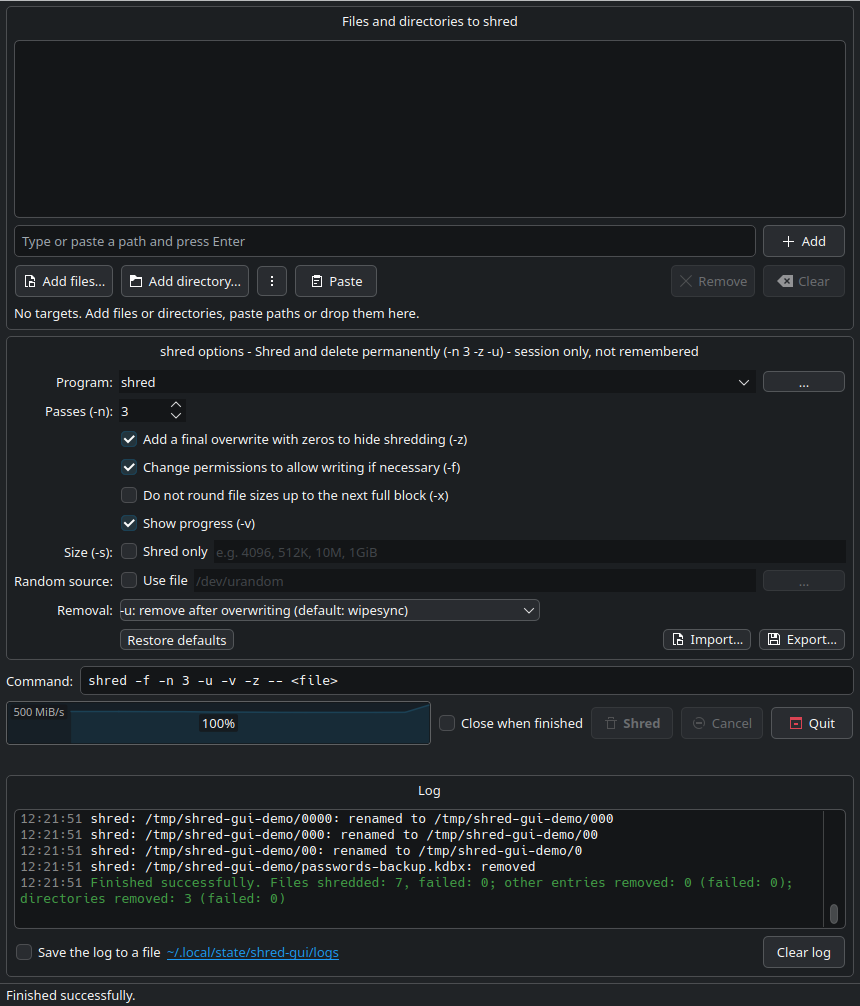
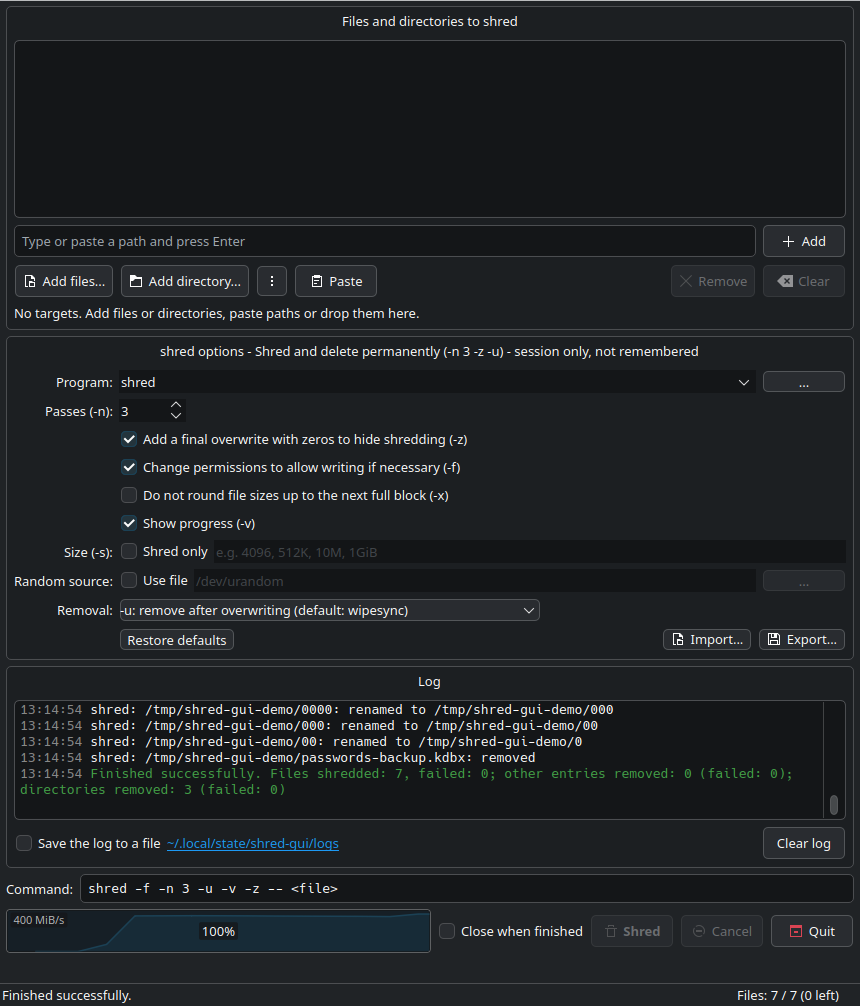
File counter, run controls at the bottom, result in the status bar
- Count the shredded files of all targets (ShredJob::filesChanged) and
  show "Files: done / total (left)" on the right of the status bar.
- Move the command preview, the progress bar and the buttons below the
  log, as in rsync-gui.
- Show the result of the last run (finished, cancelled, finished with
  errors, scanning cancelled) on the left of the status bar until the
  next run; it no longer disappears when the controls are updated.

diff --git a/src/mainwindow.cpp b/src/mainwindow.cpp
@@ -257,47 +257,6 @@ void MainWindow::buildUi()
     form->addRow(QString(), settingsRow);
     mainLayout->addWidget(m_optionsBox);
 
-    // --- Command preview ---
-    auto *previewRow = new QHBoxLayout;
-    m_previewEdit = new QLineEdit(central);
-    m_previewEdit->setReadOnly(true);
-    m_previewEdit->setFont(QFontDatabase::systemFont(QFontDatabase::FixedFont));
-    previewRow->addWidget(new QLabel(tr("Command:"), central));
-    previewRow->addWidget(m_previewEdit, 1);
-    mainLayout->addLayout(previewRow);
-
-    // --- Run ---
-    auto *runRow = new QHBoxLayout;
-    m_progress = new SpeedGraph(central);
-    m_progress->setRange(0, 1000);
-    m_progress->setValue(0);
-    m_progress->setFormat(QStringLiteral("%p%"));
-    m_startButton = new QPushButton(QIcon::fromTheme(QStringLiteral("edit-delete")), tr("Shred"), central);
-    m_startButton->setStyleSheet(QStringLiteral("QPushButton:enabled { color: white; background-color: #c62828; "
-                                                "font-weight: bold; padding: 4px 16px; }"));
-    m_cancelButton = new QPushButton(QIcon::fromTheme(QStringLiteral("process-stop")), tr("Cancel"), central);
-    m_quitButton = new QPushButton(QIcon::fromTheme(QStringLiteral("application-exit")), tr("Quit"), central);
-    m_quitButton->setToolTip(tr("Close Shred GUI (while shredding, asks first whether to cancel it)."));
-    m_closeWhenFinishedCheck = new QCheckBox(tr("Close when finished"), central);
-    m_closeWhenFinishedCheck->setToolTip(tr("Quit Shred GUI after everything was shredded successfully. After errors "
-                                            "or cancelling the window stays open."));
-    runRow->addWidget(m_progress, 1);
-    runRow->addWidget(m_closeWhenFinishedCheck);
-    runRow->addWidget(m_startButton);
-    runRow->addWidget(m_cancelButton);
-    runRow->addWidget(m_quitButton);
-    mainLayout->addLayout(runRow);
-
-    m_currentFile = new ElidedLabel(central);
-    m_currentFile->setTextInteractionFlags(Qt::TextSelectableByMouse);
-    mainLayout->addWidget(m_currentFile);
-    m_scanTimer = new QTimer(this);
-    m_scanTimer->setInterval(200);
-    connect(m_scanTimer, &QTimer::timeout, this, [this] {
-        if (m_scanControl)
-            m_currentFile->setText(tr("Scanning... %L1 entries").arg(m_scanControl->entries.load()));
-    });
-
     // --- Log ---
     auto *logBox = new QGroupBox(tr("Log"), central);
     auto *logLayout = new QVBoxLayout(logBox);
@@ -333,6 +292,54 @@ void MainWindow::buildUi()
     logLayout->addWidget(m_log, 1);
     logLayout->addLayout(logButtons);
     mainLayout->addWidget(logBox, 1);
+
+    // --- Command preview ---
+    auto *previewRow = new QHBoxLayout;
+    m_previewEdit = new QLineEdit(central);
+    m_previewEdit->setReadOnly(true);
+    m_previewEdit->setFont(QFontDatabase::systemFont(QFontDatabase::FixedFont));
+    previewRow->addWidget(new QLabel(tr("Command:"), central));
+    previewRow->addWidget(m_previewEdit, 1);
+    mainLayout->addLayout(previewRow);
+
+    // --- Run ---
+    auto *runRow = new QHBoxLayout;
+    m_progress = new SpeedGraph(central);
+    m_progress->setRange(0, 1000);
+    m_progress->setValue(0);
+    m_progress->setFormat(QStringLiteral("%p%"));
+    m_startButton = new QPushButton(QIcon::fromTheme(QStringLiteral("edit-delete")), tr("Shred"), central);
+    m_startButton->setStyleSheet(QStringLiteral("QPushButton:enabled { color: white; background-color: #c62828; "
+                                                "font-weight: bold; padding: 4px 16px; }"));
+    m_cancelButton = new QPushButton(QIcon::fromTheme(QStringLiteral("process-stop")), tr("Cancel"), central);
+    m_quitButton = new QPushButton(QIcon::fromTheme(QStringLiteral("application-exit")), tr("Quit"), central);
+    m_quitButton->setToolTip(tr("Close Shred GUI (while shredding, asks first whether to cancel it)."));
+    m_closeWhenFinishedCheck = new QCheckBox(tr("Close when finished"), central);
+    m_closeWhenFinishedCheck->setToolTip(tr("Quit Shred GUI after everything was shredded successfully. After errors "
+                                            "or cancelling the window stays open."));
+    runRow->addWidget(m_progress, 1);
+    runRow->addWidget(m_closeWhenFinishedCheck);
+    runRow->addWidget(m_startButton);
+    runRow->addWidget(m_cancelButton);
+    runRow->addWidget(m_quitButton);
+    mainLayout->addLayout(runRow);
+
+    m_currentFile = new ElidedLabel(central);
+    m_currentFile->setTextInteractionFlags(Qt::TextSelectableByMouse);
+    m_fileCount = new QLabel(this);
+    m_fileCount->setToolTip(tr("Files processed (shredded or failed) of all files to shred, and how many are left."));
+    mainLayout->addWidget(m_currentFile);
+    // The status bar: the result of the last run on the left (hidden while a message is shown there, e.g. an
+    // invalid option), the file counter on the right.
+    m_resultLabel = new QLabel(this);
+    statusBar()->addWidget(m_resultLabel, 1);
+    statusBar()->addPermanentWidget(m_fileCount);
+    m_scanTimer = new QTimer(this);
+    m_scanTimer->setInterval(200);
+    connect(m_scanTimer, &QTimer::timeout, this, [this] {
+        if (m_scanControl)
+            m_currentFile->setText(tr("Scanning... %L1 entries").arg(m_scanControl->entries.load()));
+    });
 
     setCentralWidget(central);
     resize(840, 960);
@@ -943,8 +950,10 @@ void MainWindow::startShred()
         m_progress->setValue(0);
         m_currentFile->clear();
         updateControls();
-        if (control->cancelled)
+        if (control->cancelled) {
             appendLog(ShredJob::LogLevel::Warning, tr("Scanning cancelled."));
+            m_resultLabel->setText(tr("Scanning cancelled."));
+        }
         else
             confirmAndStart(result->plans, result->notes);
     });
@@ -952,6 +961,8 @@ void MainWindow::startShred()
     m_scanThread = thread;
     m_progress->setRange(0, 0); // busy indicator
     m_currentFile->setText(tr("Scanning..."));
+    m_fileCount->clear();
+    m_resultLabel->clear();
     m_scanTimer->start();
     thread->start();
     updateControls();
@@ -1141,6 +1152,9 @@ void MainWindow::confirmAndStart(const QList<ShredJob::Plan> &scanned, const QSt
     connect(m_job, &ShredJob::currentFileChanged, this, [this](const QString &file) {
         m_currentFile->setText(file.isEmpty() ? QString() : tr("Current file: "), LocalPath::display(file));
     });
+    connect(m_job, &ShredJob::filesChanged, this, [this](qsizetype done, qsizetype total) {
+        m_fileCount->setText(tr("Files: %L1 / %L2 (%L3 left)").arg(done).arg(total).arg(total - done));
+    });
     connect(m_job, &ShredJob::finished, this, &MainWindow::onJobFinished);
 
     QString logFileError;
@@ -1276,14 +1290,17 @@ void MainWindow::onJobFinished()
         m_desktopProgress->finish(false, tr("Not everything could be shredded or removed."));
     if (summary.ok() && m_closeWhenFinishedCheck->isChecked()) {
         // A short moment to see the result; unchecking the box in the meantime keeps the window open.
-        m_currentFile->setText(tr("Finished successfully. Closing..."));
+        m_resultLabel->setText(tr("Finished successfully. Closing..."));
         QTimer::singleShot(1500, this, [this] {
             if (m_closeWhenFinishedCheck->isChecked() && !isBusy())
                 close();
         });
     } else if (summary.ok()) {
-        statusBar()->showMessage(tr("Finished successfully."), 10000);
-    } else if (!summary.cancelled) {
+        m_resultLabel->setText(tr("Finished successfully."));
+    } else if (summary.cancelled) {
+        m_resultLabel->setText(tr("Cancelled."));
+    } else {
+        m_resultLabel->setText(tr("Finished with errors."));
         QMessageBox::warning(this, tr("Finished with errors"),
                              tr("Not everything could be shredded or removed. See the log for details."));
     }

diff --git a/src/shredjob.h b/src/shredjob.h
@@ -92,6 +92,9 @@ public:
     const QList<Plan> &plans() const { return m_plans; }
     // The amount shred writes: the size of all files times the number of passes (an estimate with -s).
     qint64 totalBytes() const { return m_totalBytes; }
+    // The number of regular files to shred (of all targets) and how many of them are done (shredded or failed).
+    qsizetype totalFiles() const { return m_totalFiles; }
+    qsizetype doneFiles() const { return m_doneFiles; }
 
     // The number of bytes the process has written so far (the "wchar" line of /proc/<pid>/io), -1 if unknown.
     static qint64 writtenBytes(qint64 pid);
@@ -103,6 +106,8 @@ signals:
     // The amount written of totalBytes() and the current speed (over the last few seconds).
     void processedBytesChanged(qint64 bytes, qint64 bytesPerSecond);
     void currentFileChanged(const QString &path);
+    // Emitted at the start and after each file.
+    void filesChanged(qsizetype done, qsizetype total);
     void finished();
 
 private:
@@ -130,6 +135,8 @@ private:
     qsizetype m_doneSteps = 0;
     qsizetype m_totalSteps = 0;
     qint64 m_totalBytes = 0;
+    qsizetype m_totalFiles = 0;
+    qsizetype m_doneFiles = 0;
     qint64 m_doneBytes = 0; // written for the finished files
     double m_fileFraction = 0.0; // of the current file, never decreasing
     // shred reports only the start of each pass, so the amount written by the running process is read

diff --git a/tests/tst_shredcore.cpp b/tests/tst_shredcore.cpp
@@ -651,11 +651,18 @@ void TestShredCore::shredMultipleTargets()
     ShredJob job(ShredJob::scanAll({first, dir, second}), options);
     QList<int> progress;
     connect(&job, &ShredJob::progress, this, [&progress](int value) { progress << value; });
+    QList<QPair<qsizetype, qsizetype>> files;
+    connect(&job, &ShredJob::filesChanged, this, [&files](qsizetype done, qsizetype total) { files << qMakePair(done, total); });
     QStringList log;
     connect(&job, &ShredJob::log, this, [&log](ShredJob::LogLevel, const QString &t) { log << t; });
+    QCOMPARE(job.totalFiles(), 4);
     QVERIFY(runJob(job));
     QVERIFY2(job.summary().ok(), qPrintable(log.join('\n')));
     QCOMPARE(job.summary().filesShredded, 4);
+    // Counted over all targets: 0/4 at the start, then once per file.
+    const QList<QPair<qsizetype, qsizetype>> expectedFiles{{0, 4}, {1, 4}, {2, 4}, {3, 4}, {4, 4}};
+    QCOMPARE(files, expectedFiles);
+    QCOMPARE(job.doneFiles(), 4);
     QCOMPARE(job.summary().dirsRemoved, 2);
     QVERIFY(QDir(tmp.path()).isEmpty(QDir::AllEntries | QDir::Hidden | QDir::System | QDir::NoDotAndDotDot));
 

diff --git a/src/shredjob.cpp b/src/shredjob.cpp
@@ -320,6 +320,7 @@ ShredJob::ShredJob(QList<Plan> plans, ShredOptions options, QObject *parent)
     const int passes = m_options.iterations + (m_options.zero ? 1 : 0);
     for (const Plan &plan : std::as_const(m_plans)) {
         m_totalSteps += plan.files.size() + 1;
+        m_totalFiles += plan.files.size();
         for (const qint64 size : plan.fileSizes)
             m_totalBytes += size * passes;
     }
@@ -366,6 +367,7 @@ void ShredJob::start()
     m_planIndex = 0;
     m_fileIndex = 0;
     m_doneSteps = 0;
+    m_doneFiles = 0;
     m_doneBytes = 0;
     m_fileFraction = 0.0;
     m_rateSamples.clear();
@@ -375,6 +377,7 @@ void ShredJob::start()
     m_summary = {};
     m_cancelRequested = false;
     emit progress(0);
+    emit filesChanged(0, m_totalFiles);
     startNext();
 }
 
@@ -497,6 +500,8 @@ void ShredJob::onProcessFinished(int exitCode, QProcess::ExitStatus status)
     m_doneBytes += currentFileBytes();
     ++m_fileIndex;
     ++m_doneSteps;
+    ++m_doneFiles;
+    emit filesChanged(m_doneFiles, m_totalFiles);
     m_fileFraction = 0.0;
     emitProgress(0.0);
     startNext();

diff --git a/src/mainwindow.h b/src/mainwindow.h
@@ -128,6 +128,8 @@ private:
     QCheckBox *m_closeWhenFinishedCheck = nullptr;
     SpeedGraph *m_progress = nullptr; // the progress bar with the speed graph
     ElidedLabel *m_currentFile = nullptr;
+    QLabel *m_fileCount = nullptr;   // in the status bar
+    QLabel *m_resultLabel = nullptr; // the result of the last run, in the status bar
     QPlainTextEdit *m_log = nullptr;
     QCheckBox *m_logToFileCheck = nullptr; // ShredOptions::logToFile
     RunLog m_runLog; // open while a run with logToFile goes on

diff --git a/README.md b/README.md
@@ -23,7 +23,8 @@ A Qt 6 graphical front-end for the `shred` command line tool from GNU coreutils 
   FUSE file systems, and files with other **hard links**,
 - large directories are scanned in the background (the number of entries is shown, *Cancel* stops it),
 - preview of the generated command, confirmation dialog with the list of files, progress bar
-  (by the amount written) with a live **speed graph** behind it, a log with the time of every line (the date in the line that starts a run
+  (by the amount written) with a live **speed graph** behind it, the result of the last run and a
+  **file counter** (files done of all files and how many are left) in the status bar, a log with the time of every line (the date in the line that starts a run
   and when the day changes), cancellation,
 - **progress outside the window** (KDE Plasma): on the task manager entry and as a job in the
   notification area (current file, speed, a cancel button, a summary at the end),
